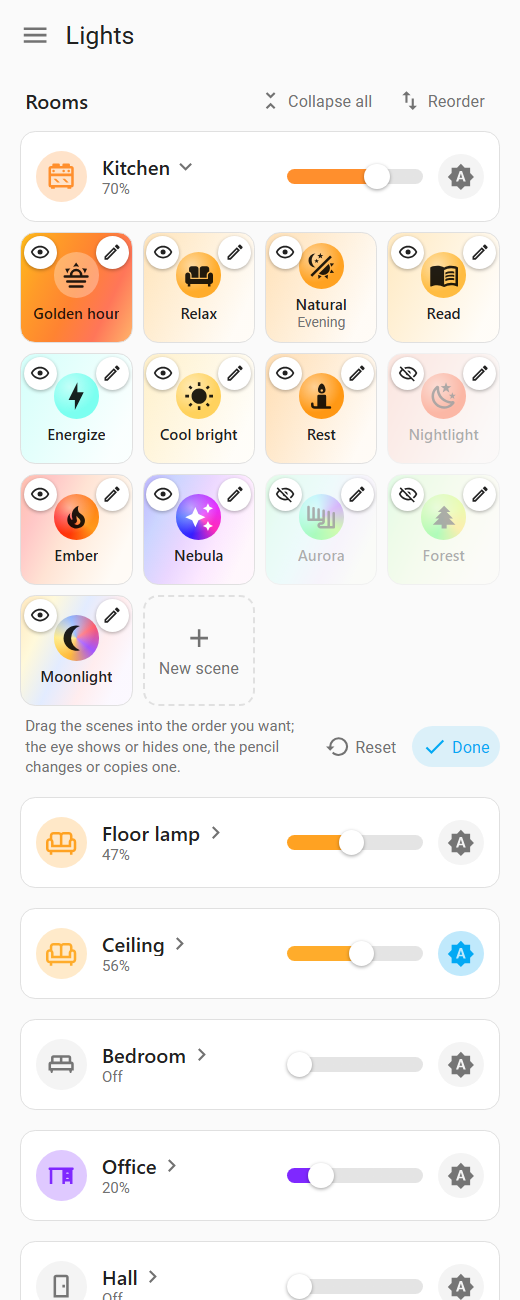
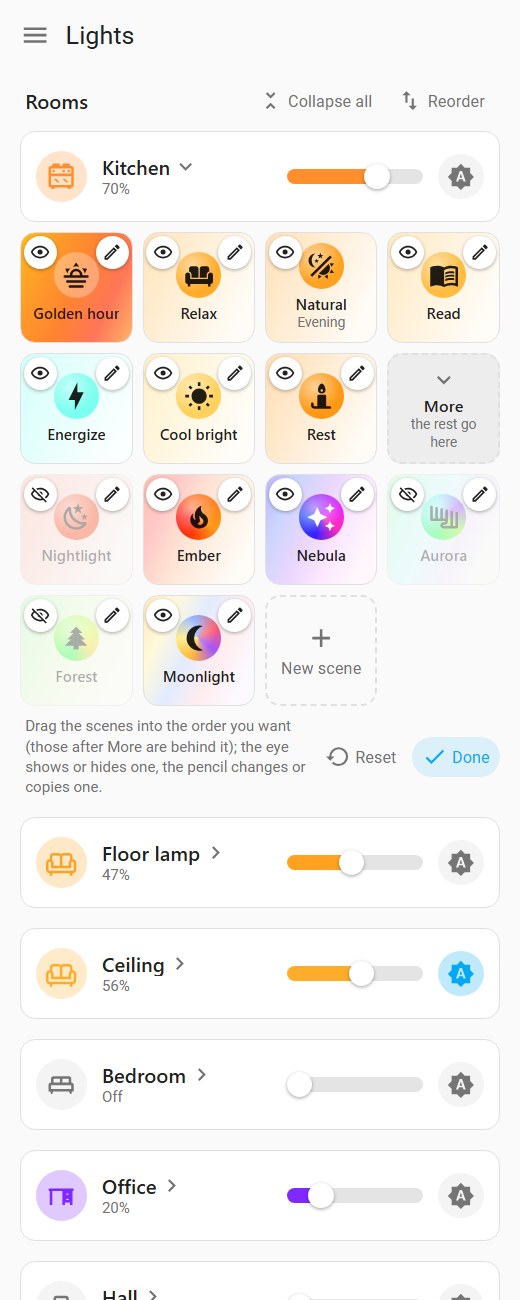
Hue-Lite 2.2.0: two rows of scenes with More, no colour scenes on white bulbs
- Each block shows at most two rows of scenes. Past that, the last place
  is a grey More tile that opens the rest (tinted while open). Which
  scenes are behind it is just their order: under Edit scenes, More marks
  where the second row ends, and scenes are dragged in front of it or
  behind it; More itself can't be moved.
- The built-in colour scenes aren't drawn on a block (or dimmer) whose
  bulbs are all white, as they'd all look the same; your saved order is
  kept, so they come back where they were if a colour bulb joins. A bulb
  that hasn't said what it can do counts as colour.

diff --git a/custom_components/hue_lite/frontend/hue-lite.js b/custom_components/hue_lite/frontend/hue-lite.js
@@ -56,6 +56,20 @@
     { id: "moonlight", name: "Moonlight", icon: "mdi:moon-waning-crescent" },
   ];
   const BUILT_IN = [...PRESETS, ...COLOUR_SCENES];
+  const COLOUR_SCENE_IDS = new Set(COLOUR_SCENES.map((s) => s.id));
+  // Scene tiles to a row.
+  const PER_ROW = 4;
+  // The colour modes a bulb that can show colour has (others are white only).
+  const COLOUR_MODES = ["hs", "xy", "rgb", "rgbw", "rgbww"];
+
+  // Whether any of these lights can show colour; one that hasn't said (it's
+  // unavailable, say) counts as if it can, as when Hue-Lite sends it a scene.
+  function mayShowColour(hass, lights) {
+    return lights.some((id) => {
+      const modes = hass?.states[id]?.attributes.supported_color_modes;
+      return !Array.isArray(modes) || modes.some((m) => COLOUR_MODES.includes(m));
+    });
+  }
   // Your own scenes (kept by Hue-Lite, in the shared settings) have ids like this.
   const isCustom = (id) => id.startsWith("custom_");
 
@@ -1220,6 +1234,17 @@
            border: 2px dashed var(--divider-color, rgba(var(--rgb-primary-text-color, 33, 33, 33), 0.12));
            border-radius: var(--ha-card-border-radius, 12px); --mdc-icon-size: 24px; }
     .scenes.editing > .add { display: inline-flex; }
+    .scenes > .cell.gone, .expander[hidden] { display: none; }
+    .scenes:not(.editing):not(.expanded) > .cell.beyond { display: none; }
+    .expander { grid-column: span 3; height: 88px; box-sizing: border-box; flex-direction: column; justify-content: center; gap: 0;
+                border-radius: var(--ha-card-border-radius, 12px); --mdc-icon-size: 22px; color: var(--secondary-text-color);
+                background: rgba(var(--rgb-primary-text-color, 33, 33, 33), 0.06); }
+    .expander:hover { background: rgba(var(--rgb-primary-text-color, 33, 33, 33), 0.1); }
+    .expander .what { font-weight: 500; color: var(--primary-text-color); }
+    .expander small { font-size: 11px; line-height: 14px; }
+    .scenes.expanded > .expander { background: rgba(var(--rgb-primary-color, 3, 169, 244), 0.14); color: var(--primary-color); }
+    .scenes.expanded > .expander .what { color: var(--primary-color); }
+    .scenes.editing > .expander { cursor: default; border: 2px dashed var(--divider-color, rgba(var(--rgb-primary-text-color, 33, 33, 33), 0.12)); }
     .edit-row { grid-column: span 12; display: flex; align-items: center; justify-content: flex-end; gap: 4px; }
     .edit-row .hint { flex: 1; padding-left: 4px; }
     .scenes:not(.editing) > .edit-row :is(.hint, .reset), .edit-row[hidden] { display: none; }`;
@@ -1237,21 +1262,37 @@
   // `editor(config)`, if given, opens the scene editor while editing: from a
   // tile's pencil (its config: one of your own to change, or a built-in one
   // to copy), or from the + tile at the end (null: a new one).
+  // With `more`, it shows two rows at most: past that, the last place is a
+  // More tile that opens (and closes) the rest. Which scenes are behind it
+  // is just their order, so they're moved in front of it or behind it by
+  // dragging; More itself stays put. Built-in colour scenes aren't drawn
+  // while `noColour` (none of its lights can show colour).
   class SceneSet {
-    constructor(holder, configs, { save, edit, editor, hint, resetTitle, usual }) {
+    constructor(holder, configs, { save, edit, editor, hint, resetTitle, usual, more }) {
       this.holder = holder;
       this.save = save;
       this.editor = editor;
       this.editing = false;
+      this.more = Boolean(more);
+      this.expanded = false;
+      this.noColour = false;
       this.grid = document.createElement("div");
       this.grid.className = "scenes";
       const { preset, light, ...base } = configs.find((c) => c.preset) || {};
       this.base = base;
+      // The lights its scenes are for.
+      this.lights = base.entities || [];
       this.custom = null;
       this.tiles = [];
-      this.grid.innerHTML = editor
-        ? `<button class="add" title="Make a scene of your own"><ha-icon icon="mdi:plus"></ha-icon><span>New scene</span></button>` : "";
+      this.grid.innerHTML = `${editor
+        ? `<button class="add" title="Make a scene of your own"><ha-icon icon="mdi:plus"></ha-icon><span>New scene</span></button>` : ""}
+        <button class="expander" hidden><ha-icon></ha-icon><span class="what"></span><small></small></button>`;
       if (editor) onActivate(this.grid.querySelector(".add"), () => editor(null));
+      onActivate(this.grid.querySelector(".expander"), () => {
+        if (this.editing) return;
+        this.expanded = !this.expanded;
+        this.arrange(this.scenes, this.editing);
+      });
       this.grid.insertAdjacentHTML("beforeend", `
         <div class="edit-row">
           <span class="hint"></span>
@@ -1259,7 +1300,7 @@
           ${edit ? `<button class="edit" title="Put the scenes in another order or hide some"><ha-icon></ha-icon><span></span></button>` : ""}
         </div>`);
       this.grid.querySelector(".hint").textContent = hint
-        || "Drag the scenes into the order you want; the eye shows or hides one, the pencil changes or copies one.";
+        || "Drag the scenes into the order you want (those after More are behind it); the eye shows or hides one, the pencil changes or copies one.";
       const reset = this.grid.querySelector(".reset");
       reset.title = resetTitle || "Back to the usual order, with every built-in scene shown; your own stay as they are";
       onActivate(reset, () => {
@@ -1357,6 +1398,7 @@
         const pen = cell.querySelector(".pen");
         if (pen) pen.title = isCustom(id) ? `Change ${card.scene.name}` : `Make a scene from ${card.scene.name}`;
       }
+      this._placeMore(scenes, cells);
       this.grid.classList.toggle("editing", editing);
       const edit = this.grid.querySelector(".edit");
       // With nothing in it (a set that can't be edited, not being edited), no row.
@@ -1367,6 +1409,42 @@
         edit.querySelector("ha-icon").setAttribute("icon", editing ? "mdi:check" : "mdi:pencil-outline");
       }
       this.sorter.sync();
+    }
+
+    // Whether any of its lights can show colour (one that hasn't said counts
+    // as if it can); when none can, the built-in colour scenes go.
+    colour(can) {
+      if (this.noColour === !can) return;
+      this.noColour = !can;
+      this.arrange(this.scenes, this.editing);
+    }
+
+    // Leaves out colour scenes no light can show, and puts More after the
+    // seventh scene shown when there are more than two rows of them: the
+    // scenes after it are behind it until it's opened (while editing,
+    // they're all shown, More marking where the second row ends).
+    _placeMore(scenes, cells) {
+      const gone = (id) => this.noColour && COLOUR_SCENE_IDS.has(id);
+      const shown = scenes.order.filter((id) => !scenes.hidden.includes(id) && !gone(id));
+      const cut = this.more && shown.length > 2 * PER_ROW ? shown[2 * PER_ROW - 2] : null;
+      const last = cut ? scenes.order.indexOf(cut) : Infinity;
+      scenes.order.forEach((id, i) => {
+        cells.get(id).classList.toggle("gone", gone(id));
+        cells.get(id).classList.toggle("beyond", i > last);
+      });
+      const more = this.grid.querySelector(".expander");
+      more.hidden = !cut;
+      this.grid.classList.toggle("expanded", Boolean(cut) && this.expanded && !this.editing);
+      if (!cut) return;
+      if (cells.get(cut).nextElementSibling !== more) cells.get(cut).after(more);
+      const open = this.expanded && !this.editing;
+      more.disabled = this.editing;
+      more.setAttribute("aria-expanded", String(open));
+      more.querySelector("ha-icon").setAttribute("icon", open ? "mdi:chevron-up" : "mdi:chevron-down");
+      more.querySelector(".what").textContent = open ? "Less" : "More";
+      more.querySelector("small").textContent = this.editing ? "the rest go here" : open ? "" : `${shown.length - (2 * PER_ROW - 1)} more`;
+      more.title = this.editing ? "Scenes after More are behind it: drag one in front to show it straight away"
+        : open ? "Show just the first two rows" : "Show the rest of the scenes";
     }
   }
 
@@ -1480,10 +1558,21 @@
           this._arrange();
         },
         editor: (config) => openSceneEditor(this._hass, config, show, configs[0]?.entities),
+        more: true,
       });
       set.key = key;
       container.appendChild(set.grid);
       this._sets.set(key, set);
+    }
+
+    // Every light in its blocks: a bulb that comes back, or reports what
+    // it can do, can change whether a block's colour scenes show.
+    _watching() {
+      return [...new Set(this._config.rooms.flatMap((r) => r.scenes?.[0]?.entities || []))];
+    }
+
+    _update() {
+      for (const set of this._sets.values()) set.colour(mayShowColour(this._hass, set.lights));
     }
 
     // Everyone's scenes changed. The first time, scenes this user arranged
@@ -1805,6 +1894,11 @@
         const set = this._sets.get(id);
         if (!set) continue;
         set.sync(shared.data?.custom);
+        // The lights it controls: the ones chosen, or its area's.
+        const area = this._config.dimmers.find((d) => d.id === id)?.area_id;
+        const controls = chosen.length ? chosen
+          : this._config.lights.filter((l) => area && this._hass?.entities?.[l] && areaOf(this._hass, this._hass.entities[l]) === area);
+        set.noColour = !mayShowColour(this._hass, controls);
         set.arrange(sceneOrder(set.ids, settings.scenes, shared.data?.dimmer_default, () => true), this._admin);
         // They only show the scenes: a tap here mustn't set any lights.
         for (const { card } of set.tiles) card.inert = true;

diff --git a/tests/harness/index.html b/tests/harness/index.html
@@ -87,7 +87,7 @@
       light("light.living_room", "Living Room", "on", relax),
       light("light.floor_lamp", "Floor lamp", "on", coolBright),
       light("light.kitchen", "Kitchen", "on", relax),
-      light("light.bedroom", "Bedroom", "off"),
+      light("light.bedroom", "Bedroom", "off", { supported_color_modes: ["color_temp"] }), // white only
       light("light.office", "Office", "on", { brightness: 51, color_mode: "xy", xy_color: [0.2712, 0.1723], rgb_color: [179, 127, 255] }),
       light("light.lamp", "Reading lamp", "on", coolBright),
       light("light.garden", "Garden", "on"),

diff --git a/README.md b/README.md
@@ -133,6 +133,13 @@ Icons and sliders take the colour the bulbs report. Each scene tile shows the
 colour it gives, and it's filled and ticked while the lights are in that
 scene.
 
+**Two rows of scenes:** each block shows at most two rows. Past that, the
+last place is a grey **More** tile that opens the rest (and closes them
+again). Which scenes are behind it is just their order: under Edit scenes,
+drag one in front of More or behind it. The colour scenes don't show on a
+block whose bulbs are all white (they'd all look the same there); add a
+colour bulb and they're back where you had them.
+
 **Edit scenes:**
 - Drag a block's scene tiles into another order.
 - Hide scenes with their eye.
